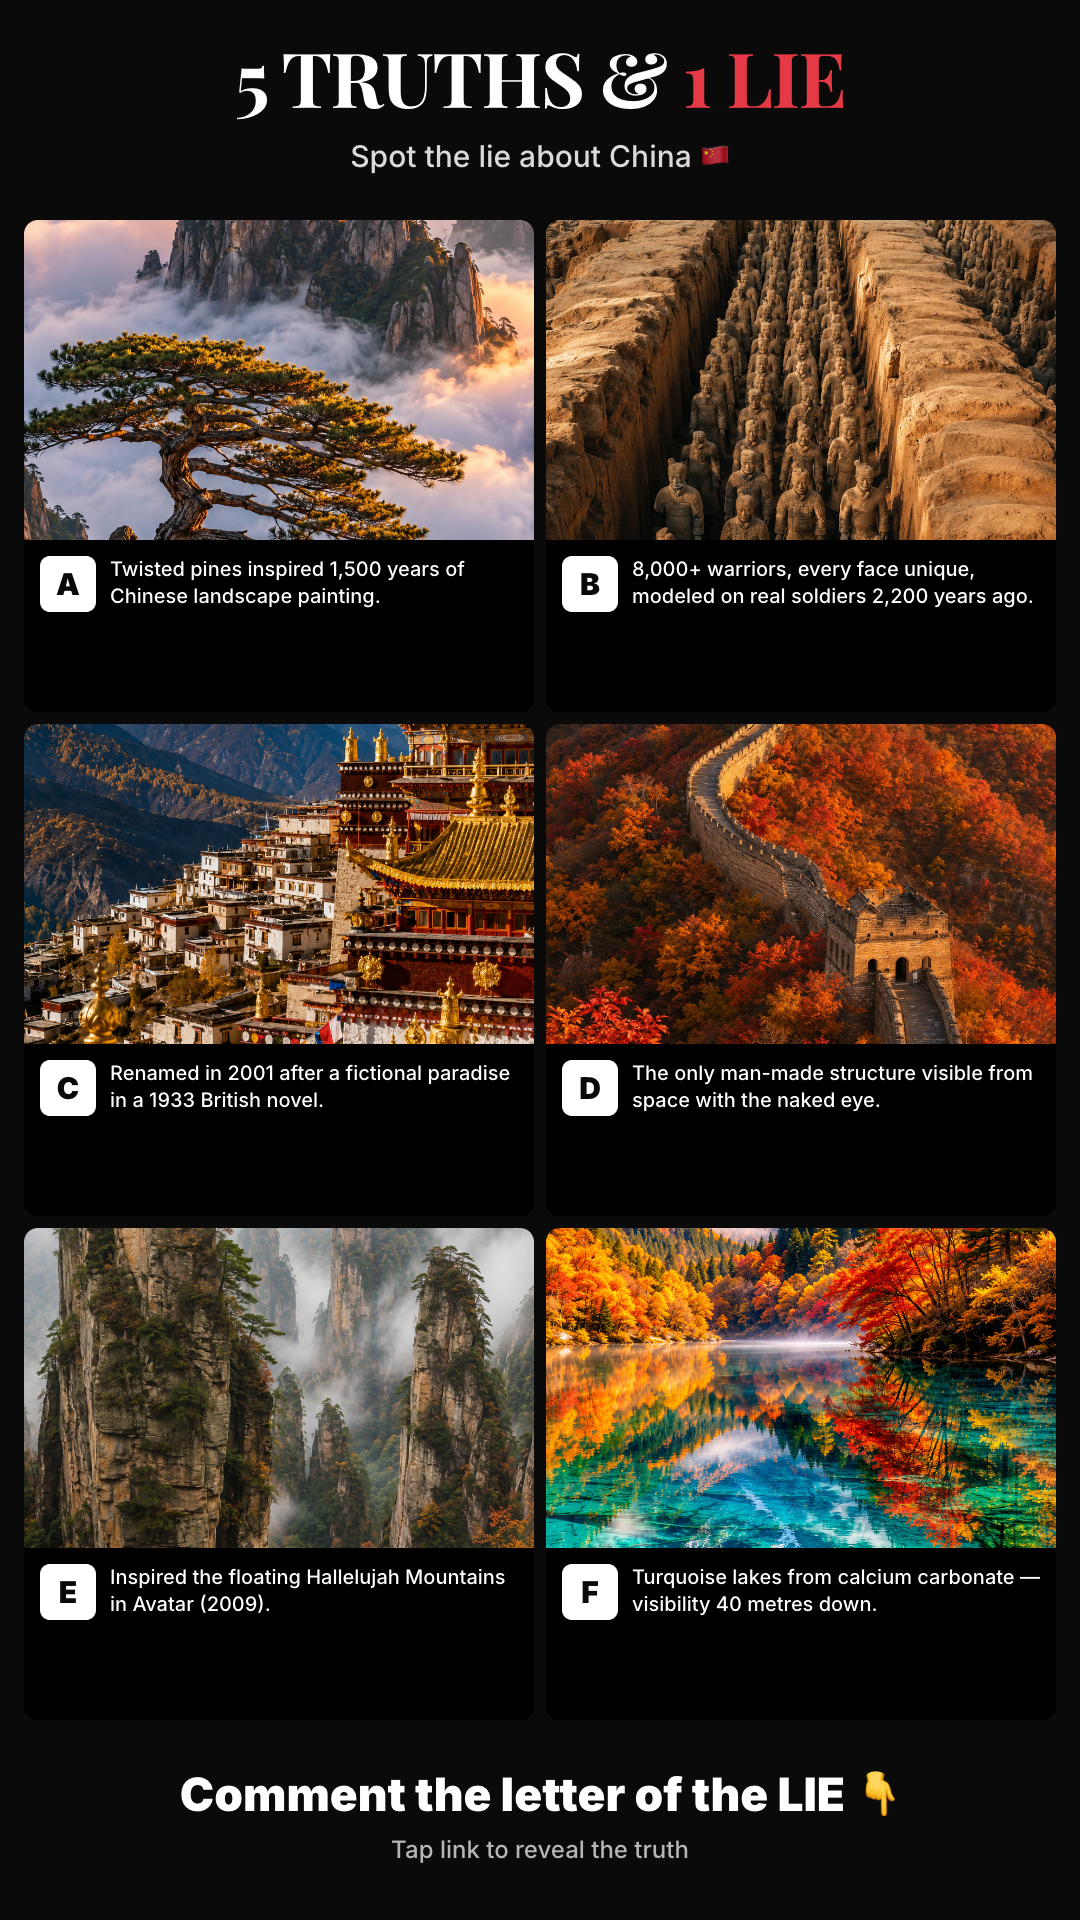
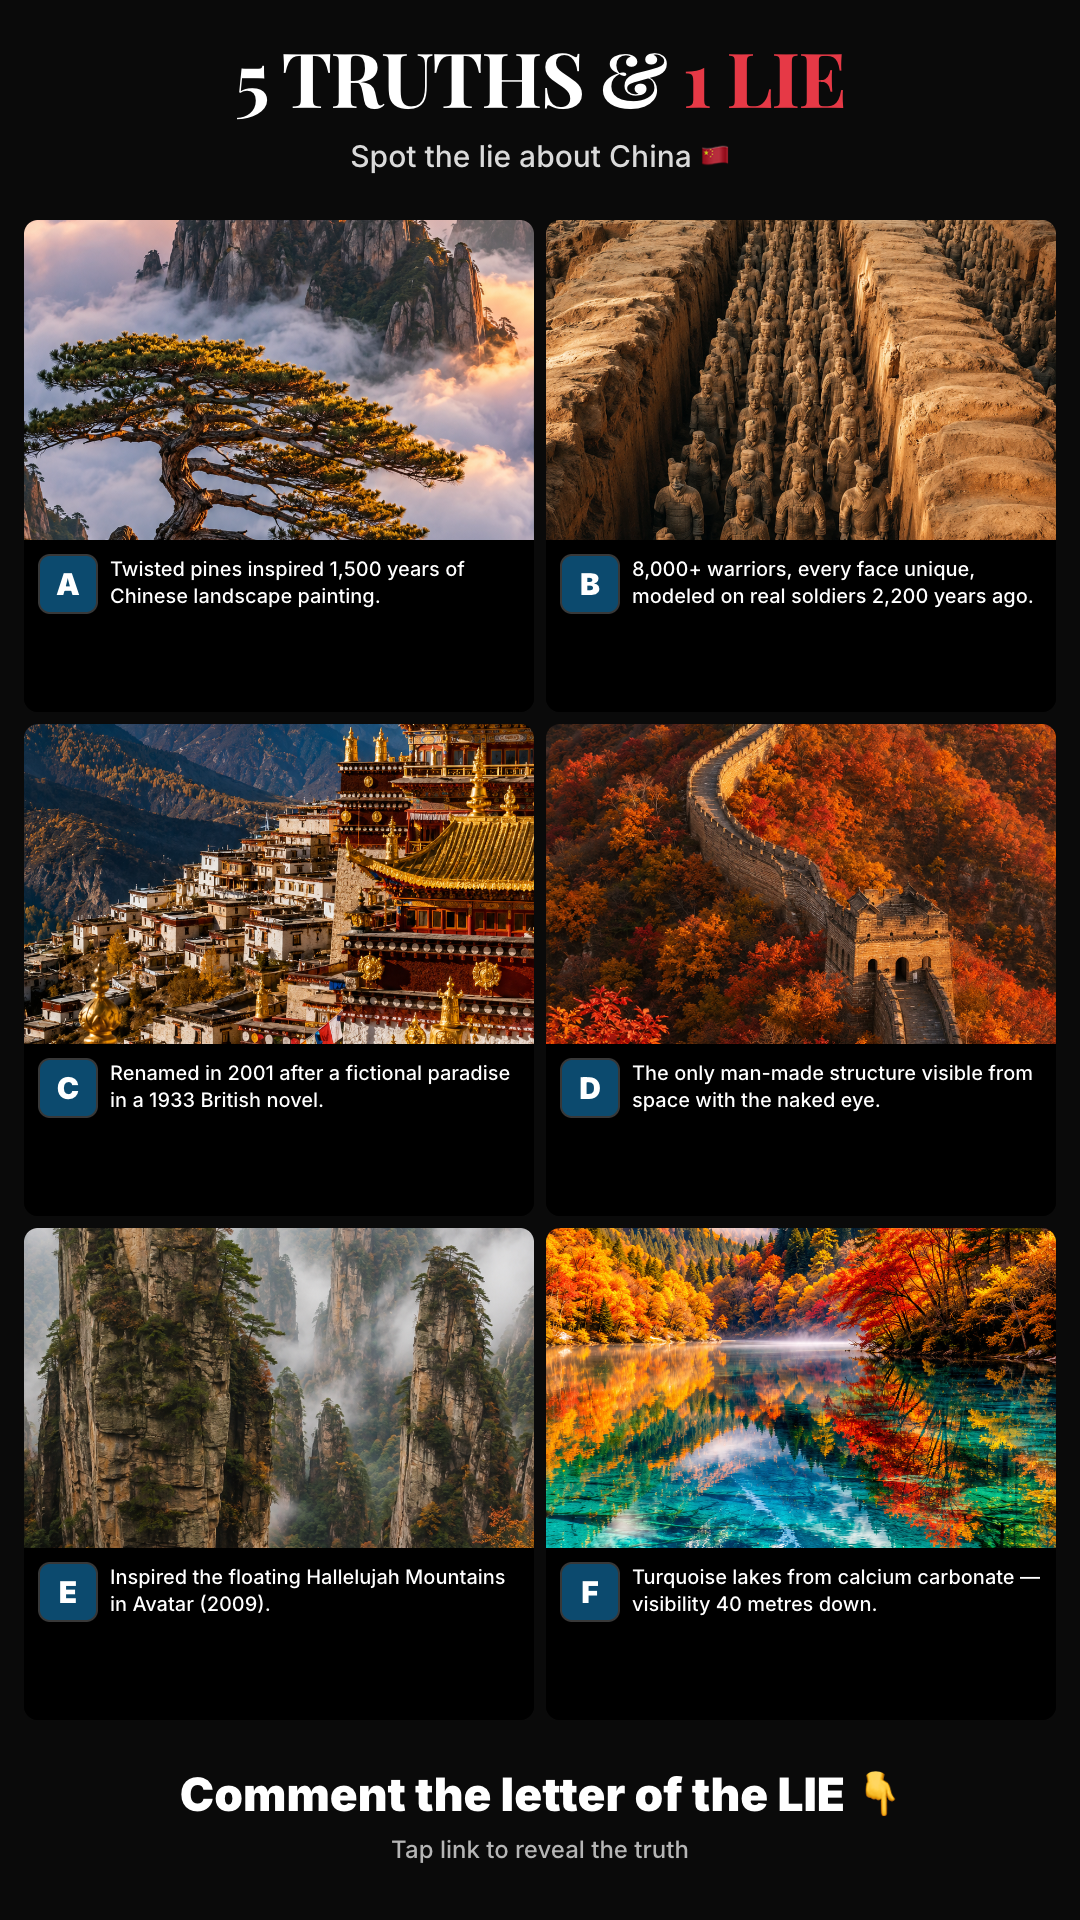
fix(play): VI polish — unify letter chips + LP hero + broken footer image (#80)
Three visual consistency fixes after PM review of the live PR #78 funnel:

1. Letter chips unified across surfaces. Collage chip was white-on-black,
   LP chips were sky-900 white text. Switched the collage chip to sky-900
   white text + a soft white/22 ring to maintain contrast on the black
   collage. Visitor arriving from the FB Reel now sees the same "A/B/C..."
   chip style on the LP — no visual cut between ad and landing page.

2. TourDiscoveryFooter "Browse all China tours" card image was pointing
   to forbidden-city-gold-lion/forbidden-city-gold-lion.jpg in Supabase
   tour-images, which currently returns HTTP 400. Swapped to the local
   panel-A.png (Mt. Huangshan) — guaranteed-loading, on-theme, keeps the
   quiz visual identity through the footer.

3. LP hero realigned to mirror the collage exactly. Was rendering the
   long "5 Truths & 1 Lie about China — can you spot the lie?" headline
   plus a single subtitle. Now renders the same two-line structure as the
   collage: "5 TRUTHS & 1 LIE" (uppercase serif, red accent on "1 LIE")
   + "Spot the lie about China 🇨🇳" subtitle + the existing explainer
   paragraph underneath. Tightens the visual continuity from ad → LP.

Collage.png regenerated via scripts/render-quiz-collage.sh and committed.

Build verified locally (npm run build, exit 0).

diff --git a/src/app/play/_components/SpotTheLieReveal.tsx b/src/app/play/_components/SpotTheLieReveal.tsx
@@ -31,16 +31,23 @@ export default function SpotTheLieReveal({ quiz }: { quiz: PlayQuiz }) {
 
   return (
     <article className="bg-white">
-      {/* Hero — pre-reveal question */}
+      {/* Hero — mirrors the FB Reel collage exactly so visitors arriving from
+          the ad see a continuous visual: same headline shape, same subtitle,
+          same red accent on "1 LIE". The detailed prompt sits underneath. */}
       <section className="bg-gradient-to-br from-sky-900 via-sky-800 to-sky-900 text-white">
         <div className="container mx-auto px-4 py-12 md:py-16 text-center max-w-3xl">
-          <p className="text-xs uppercase tracking-widest text-amber-300 font-semibold mb-3">
-            CTS · play · 5 truths &amp; 1 lie
+          <p className="text-xs uppercase tracking-widest text-amber-300 font-semibold mb-5">
+            CTS · play · spot the lie
           </p>
-          <h1 className="text-3xl md:text-5xl font-serif font-bold mb-4 leading-tight">
-            {quiz.hero.question}
+          <h1 className="font-serif font-black uppercase tracking-tight leading-[0.95] text-5xl md:text-7xl mb-3">
+            5 Truths &amp; <span className="text-red-400">1 Lie</span>
           </h1>
-          <p className="text-base md:text-lg text-sky-100/90">{quiz.hero.subtitle}</p>
+          <p className="text-lg md:text-2xl text-sky-100 font-medium mb-5">
+            Spot the lie about China 🇨🇳
+          </p>
+          <p className="text-sm md:text-base text-sky-100/80 max-w-2xl mx-auto leading-relaxed">
+            {quiz.hero.subtitle}
+          </p>
         </div>
       </section>
 

diff --git a/src/app/dev/quiz-collage/[slug]/page.tsx b/src/app/dev/quiz-collage/[slug]/page.tsx
@@ -178,8 +178,9 @@ export default function QuizCollagePage({ params }: RouteParams) {
                   width: '56px',
                   height: '56px',
                   borderRadius: '10px',
-                  backgroundColor: 'white',
-                  color: '#0A0A0A',
+                  backgroundColor: '#0c4a6e', // sky-900 — matches LP letter chips for cross-surface consistency
+                  color: 'white',
+                  boxShadow: '0 0 0 2px rgba(255,255,255,0.22)', // soft ring lifts contrast on the black collage background
                   display: 'flex',
                   alignItems: 'center',
                   justifyContent: 'center',

diff --git a/src/app/play/_components/TourDiscoveryFooter.tsx b/src/app/play/_components/TourDiscoveryFooter.tsx
@@ -77,8 +77,8 @@ const FLAGSHIP_TOURS: FlagshipTour[] = [
     duration: 'Signature · Discovery · Stopover',
     blurb:
       'See every CTS itinerary — NZD pricing, Auckland departures, NZ visa-free until 31 Dec 2026.',
-    image: `${TOUR_IMG_LIB}/forbidden-city-gold-lion/forbidden-city-gold-lion.jpg`,
-    alt: 'Gold lion guarding a hall in the Forbidden City',
+    image: '/images/play/spot-the-lie-china-icons-1/panel-A.png',
+    alt: 'Mt. Huangshan at sunrise with the iconic Welcoming Guest Pine',
   },
 ]
 